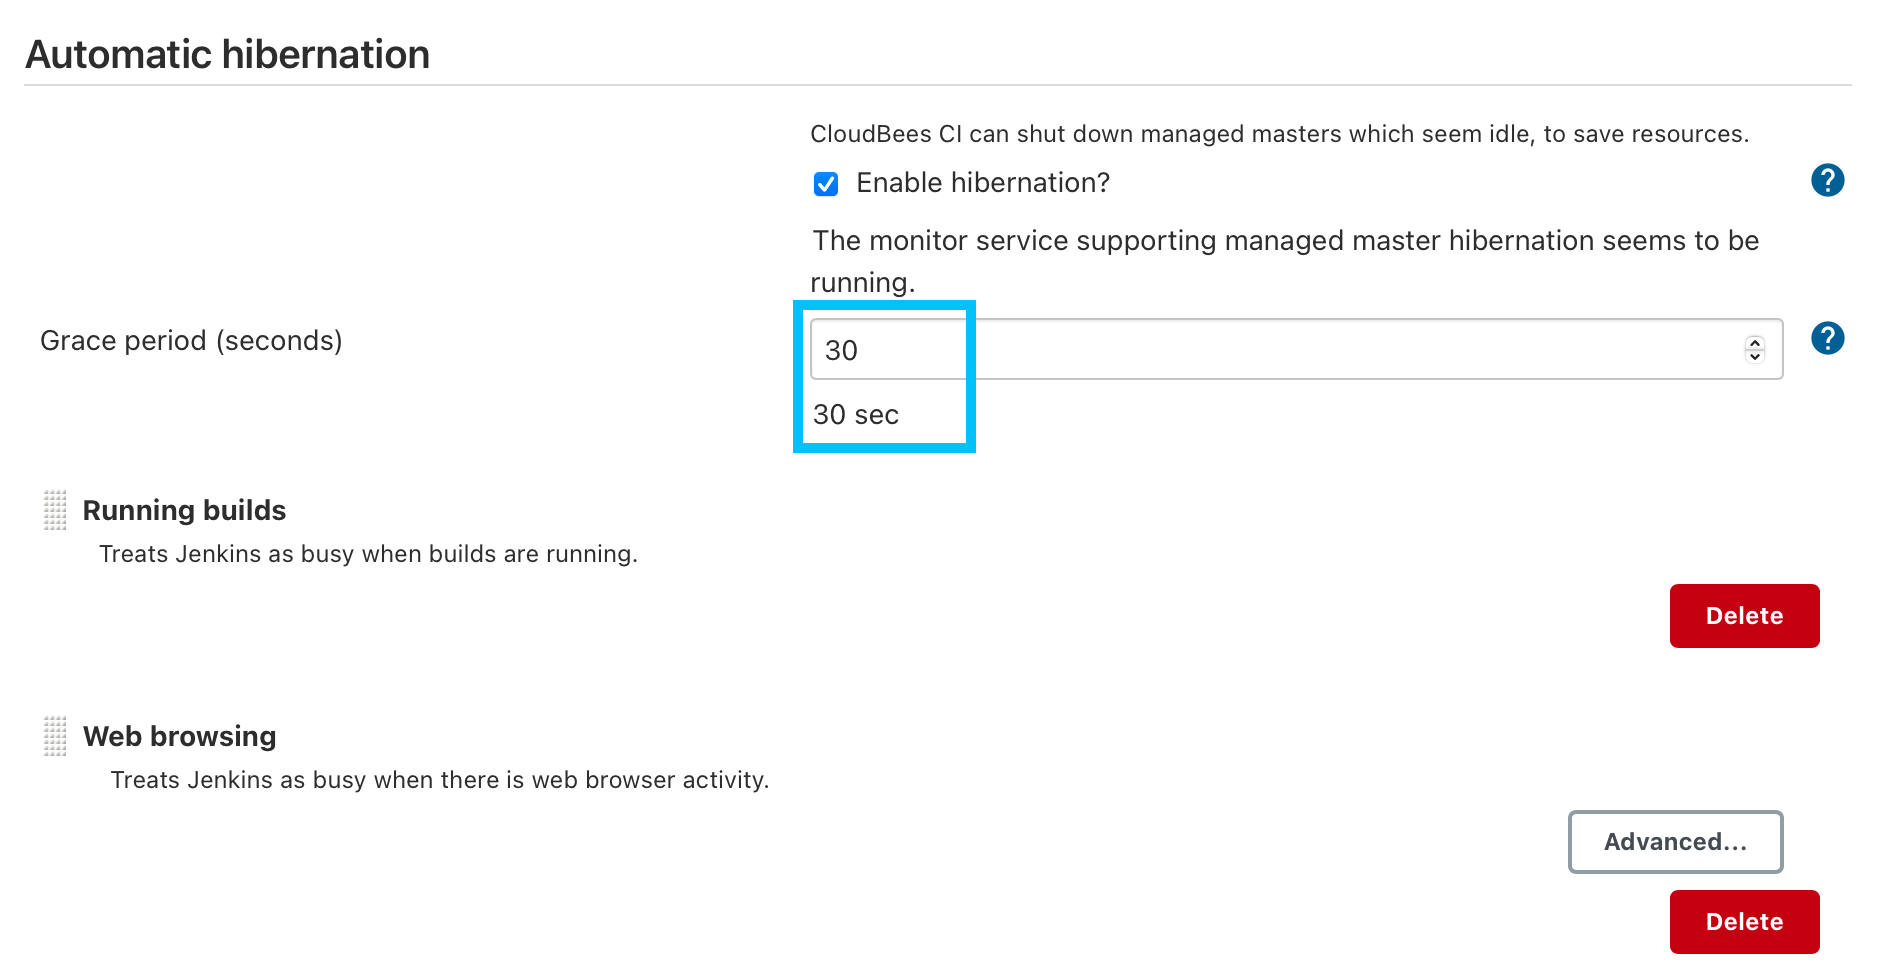
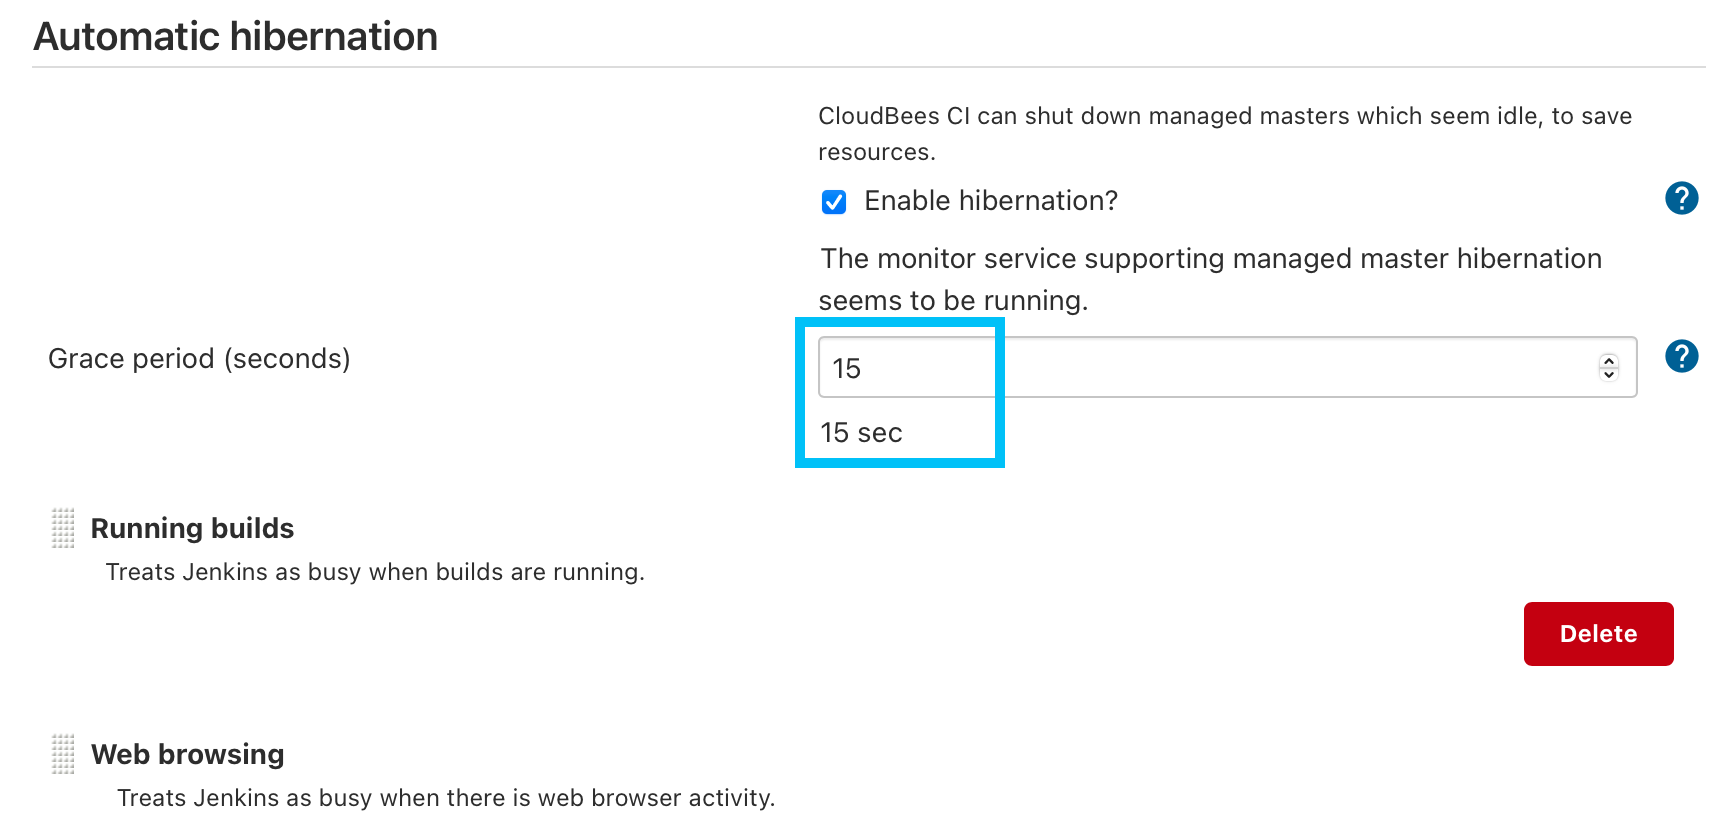
updates for hibernation lab

diff --git a/labs/cloudbees-ci/content/module-2/hibernating.md b/labs/cloudbees-ci/content/module-2/hibernating.md
@@ -14,12 +14,14 @@ Hibernation for CloudBees CI Managed Controllers is managed at the global Jenkin
 The hibernating monitor service provides a `POST` proxy for things like GitHub webhooks. In this lab we will add a GitHub webhook to your workshop GitHub Organization that includes the [CloudBees CI hibernation POST queue endpoint](https://docs.cloudbees.com/docs/cloudbees-ci/latest/cloud-admin-guide/managing-masters#post-queue-github).
 
 1. First, we will update the hibernation grace period of your Managed Controller so we don't have to wait 25 minutes for it to hibernate. To modify the hibernation configuration via the UI you will need to login as an administrator. Click on your CloudBees CI username in the top-right corner of the screen and then select **Log Out** from the drop-down menu. ![Log Out](log-out.png?width=50pc)
-2. Log back in, but append **-admin** to the GitHub username you used earlier to login with, the password is the same as before. ![Log In as Admin](log-in-admin.png?width=50pc) 
+2. Log back in, but append `**-admin**` to the GitHub username you used earlier to login with, the password is the same as before. ![Log In as Admin](log-in-admin.png?width=50pc) 
 3. Navigate to the top-level of your Managed Controller, click on the **Mange Jenkins** link in the left menu and then click **Configure System**. ![Manage Jenkins](manage-jenkins.png?width=50pc)
-4. Scroll down to the **Automatic hibernation** configuration and update the **Grace period** from *1500* seconds (configured via CasC) to *30* seconds and then click the **Save** button. By the time we are finished with the rest of the steps in this lab your Managed Controller should be hibernating. ![Update Grace period](update-grace-period.png?width=50pc)
-5. Navigate back to CloudBees CI Cloud Operations Center by clicking on **Jenkins** in the breadcrumb navigation and then navigate to your workshiop GitHub Organization and click on the **Settings** link. ![GitHub Organization Settings link](github-org-settings-link.png?width=50pc)
-6. In the **Account settings** left menu click on the **Webhooks** link and then click on the **Edit** button for the Webhook starting with **https://cbci.workshop.cb-sa.io/**. ![Edit CBCI Webhook](edit-webhook-button.png?width=50pc)
-7. Before we update the webhook to use the hibernation proxy, scroll down to **Recent Deliveries**, expand the most recent delivery and click the **Redeliver** button. The *redelivery* will fail. ![Failed Webhook Redelivery](failed-webhook-redelivery.png?width=50pc)
+4. Scroll down to the **Automatic hibernation** configuration and update the **Grace period** from *1500* seconds (configured via CasC) to *15* seconds and then click the **Save** button. By the time we are finished with the rest of the steps in this lab your Managed Controller should be hibernating. ![Update Grace period](update-grace-period.png?width=50pc)
+5. Next, navigate to the **Teams** folder on the CloudBees CI Cloud Operations Center and refresh the page untill your Managed Controller is hibernating signified by a *blue pause icon*. ![Hibernating Managed Controller](hibernating-controller.png?width=50pc)
+6. From the **Teams** folder, click on the **Manage** link, signified by the *cog icon*, for your Managed Controller and you will see on the **Manage** screen for your controller that it is **Disconnected (hibernated)**. ![Disconnected Hibernated Controller](disconnected-hibernated-controller.png?width=50pc)
+7. Now goto to your workshiop GitHub Organization and click on the **Settings** link. ![GitHub Organization Settings link](github-org-settings-link.png?width=50pc)
+8. In the **Account settings** left menu click on the **Webhooks** link and then click on the **Edit** button for the Webhook starting with **https://cbci.workshop.cb-sa.io/**. ![Edit CBCI Webhook](edit-webhook-button.png?width=50pc)
+9. Before we update the webhook to use the hibernation proxy, scroll down to **Recent Deliveries**, expand the most recent delivery and click the **Redeliver** button. The *redelivery* will fail. ![Failed Webhook Redelivery](failed-webhook-redelivery.png?width=50pc)
 8. We will update the **Payload URL** to send Webhooks to the `hibernation/queue/` - in this example we are setting it for a GitHub Organization with the name **bee-ci** so the payload URL would be `https://cbci.workshop.cb-sa.io/hibernation/ns/sda/queue/teams-bee-ci/github-webhook/` - update your **Payload URL** by replacing `https://cbci.workshop.cb-sa.io/` with `https://cbci.workshop.cb-sa.io/hibernation/ns/sda/queue/` before your Managed Controller specific sub-path and then click the **Update webhook** button. ![Update webhook](update-webhook-url.png?width=50pc)
 9. Once again, scroll down to **Recent Deliveries**, expand the most recent delivery (the one that failed) and click the **Redeliver** button. ![Successful Webhook Redelivery](successful-webhook-redelivery.png?width=50pc)
 10. Navigate to https://cbci.workshop.cb-sa.io/cjoc/ in your browser. **IMPORTANT - DO NOT CLICK ON THE LINK FOR YOU MANAGED CONTROLLER!** You should see that your Managed Controller is now hibernating. Click on the cog icon next to your Managed Controller. ![managed controller hibernating](controller-hibernating.png?width=50pc)
